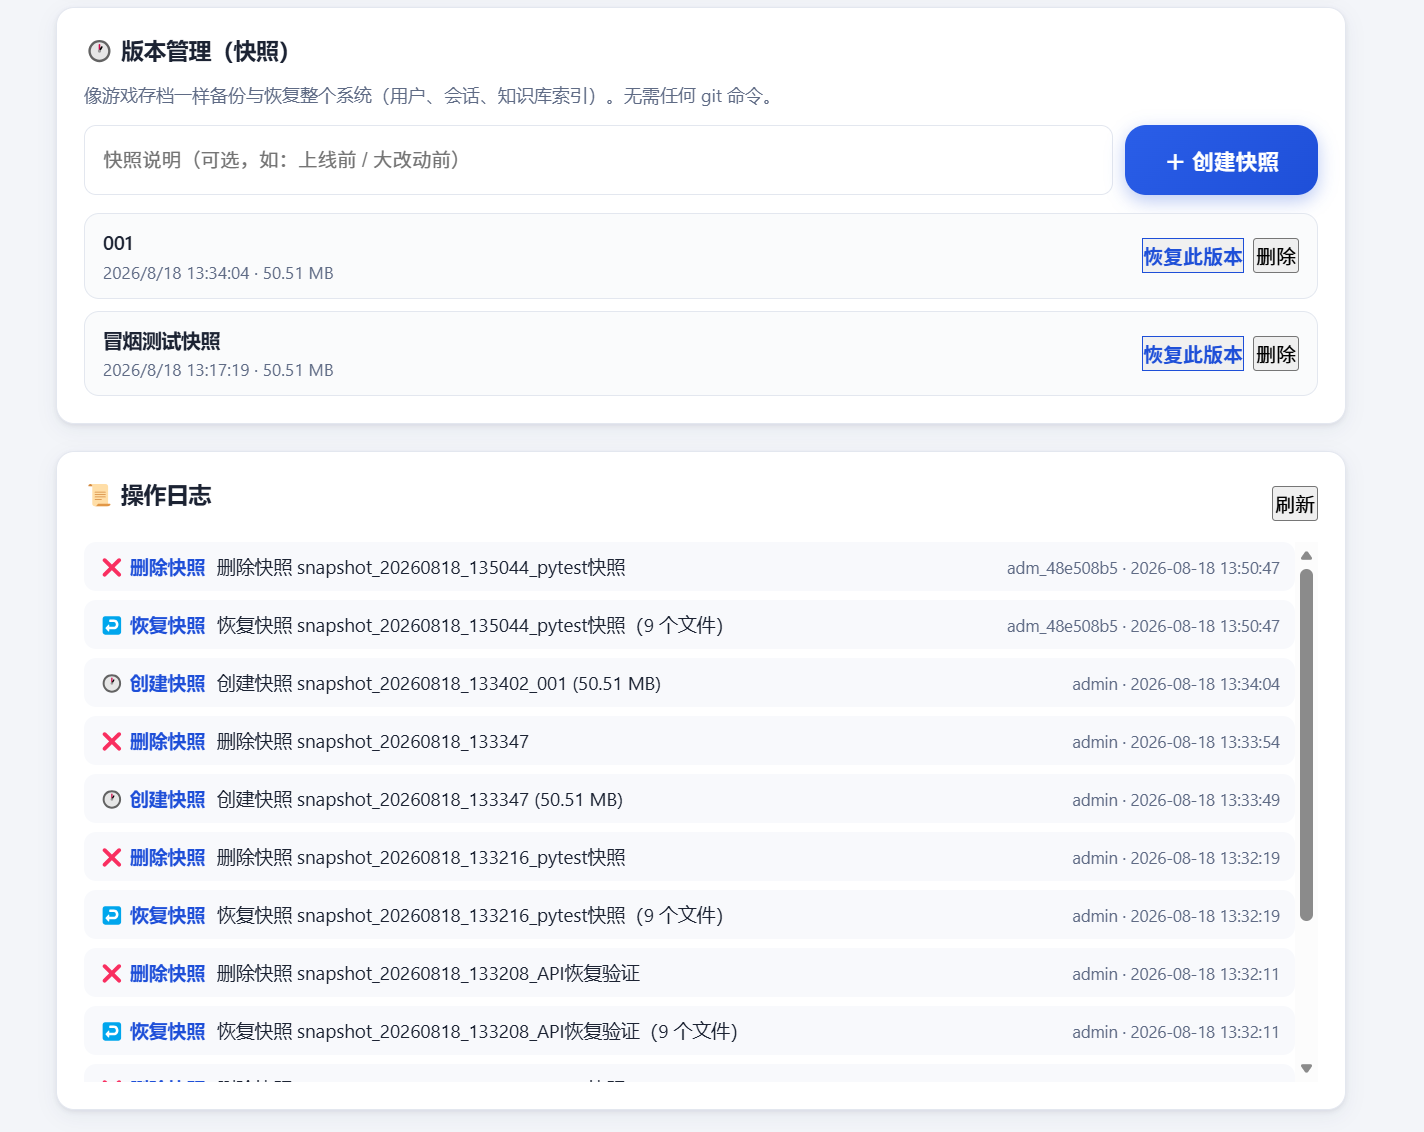
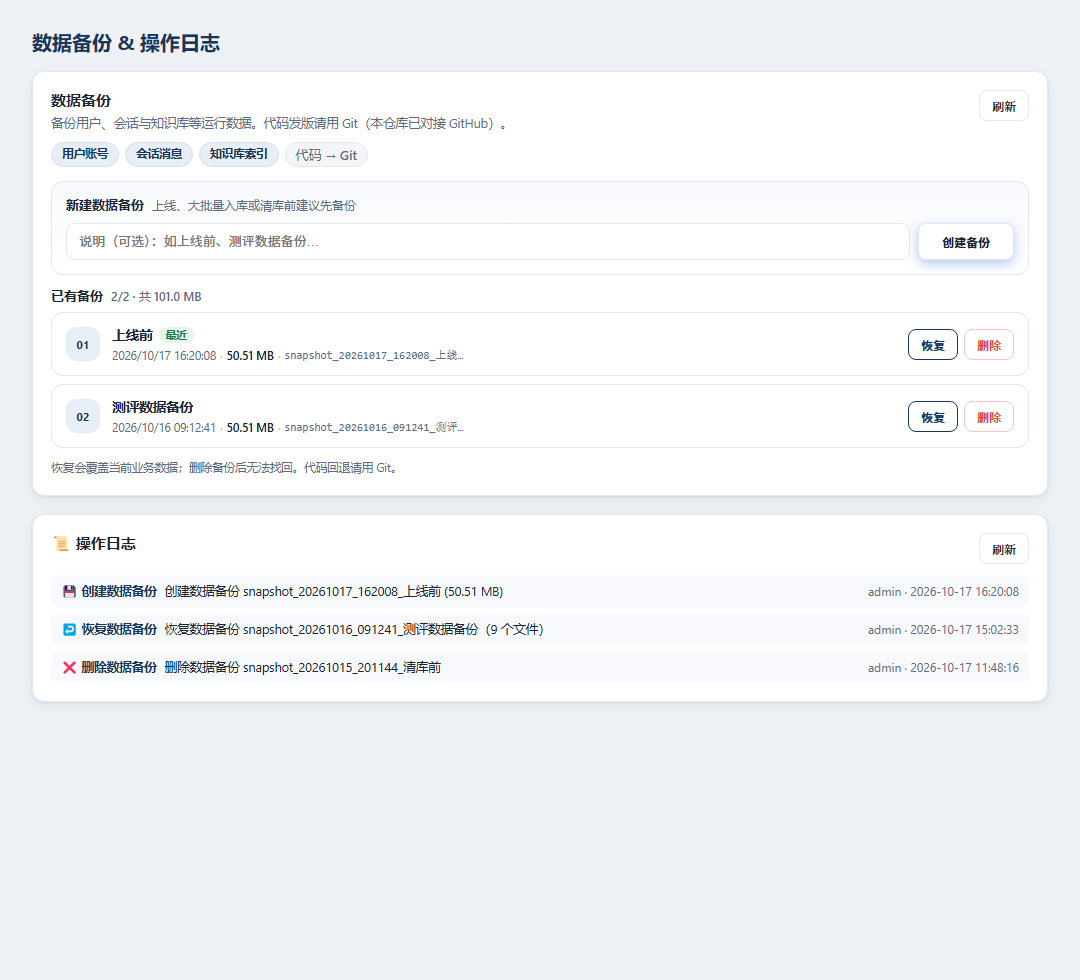
docs: call runtime backups data backups and refresh the README shot
Avoid mixing Git version control with the admin backup panel.

diff --git a/frontend/src/components/AdminPanel.tsx b/frontend/src/components/AdminPanel.tsx
@@ -870,7 +870,7 @@ function BackupPanel() {
     try {
       const r = await api.backupRestore(s.name);
       setMsgType("ok");
-      setMsg(`已恢复到该版本（还原 ${r.count} 个文件）`);
+      setMsg(`已恢复该备份（还原 ${r.count} 个文件）`);
       await refresh();
     } catch (err) {
       setMsgType("err");
@@ -1073,7 +1073,7 @@ function BackupPanel() {
   );
 }
 
-/** 操作日志：追踪管理操作（删用户/改角色/快照等） */
+/** 操作日志：追踪管理操作（删用户/改角色/数据备份等） */
 function LogsPanel() {
   const [logs, setLogs] = useState<AdminLogItem[]>([]);
 

diff --git a/frontend/src/styles/app.css b/frontend/src/styles/app.css
@@ -1263,7 +1263,7 @@ code {
   margin-bottom: 2px;
 }
 
-/* 版本快照 */
+/* 数据备份 */
 .bk-hint {
   font-size: 12px;
   color: var(--text-2);

diff --git a/backend/app/api/admin_api.py b/backend/app/api/admin_api.py
@@ -179,24 +179,24 @@ def delete_user(user_id: int, admin: dict = Depends(require_perm("users"))) -> d
     return {"ok": True}
 
 
-# ---------- 版本快照 ----------
+# ---------- 数据备份（运行数据；代码版本用 Git） ----------
 @router.post("/backup/create")
 def backup_create(description: str = "", admin: dict = Depends(require_perm("backups"))):
-    """创建版本快照。"""
+    """创建数据备份。"""
     from app.services.backup import create_snapshot
 
     try:
         result = create_snapshot(description)
         log_action(admin["id"], admin["username"], "backup_create",
-                   f"创建快照 {result['name']} ({result['size_mb']} MB)")
+                   f"创建数据备份 {result['name']} ({result['size_mb']} MB)")
         return result
     except Exception as exc:  # noqa: BLE001
-        raise AppError(f"创建快照失败: {exc}", 500) from exc
+        raise AppError(f"创建数据备份失败: {exc}", 500) from exc
 
 
 @router.get("/backup/list")
 def backup_list(_: dict = Depends(require_perm("backups"))):
-    """列出全部快照。"""
+    """列出全部数据备份。"""
     from app.services.backup import list_snapshots
 
     return {"snapshots": list_snapshots()}
@@ -204,13 +204,13 @@ def backup_list(_: dict = Depends(require_perm("backups"))):
 
 @router.post("/backup/{name}/restore")
 def backup_restore(name: str, admin: dict = Depends(require_perm("backups"))):
-    """恢复快照。"""
+    """恢复数据备份。"""
     from app.services.backup import restore_snapshot
 
     try:
         result = restore_snapshot(name)
         log_action(admin["id"], admin["username"], "backup_restore",
-                   f"恢复快照 {name}（{result['count']} 个文件）")
+                   f"恢复数据备份 {name}（{result['count']} 个文件）")
         return result
     except FileNotFoundError as exc:
         raise AppError(str(exc), 404) from exc
@@ -220,13 +220,13 @@ def backup_restore(name: str, admin: dict = Depends(require_perm("backups"))):
 
 @router.delete("/backup/{name}")
 def backup_delete(name: str, admin: dict = Depends(require_perm("backups"))):
-    """删除快照。"""
+    """删除数据备份。"""
     from app.services.backup import delete_snapshot
 
     ok = delete_snapshot(name)
     if not ok:
-        raise AppError("快照不存在", 404)
-    log_action(admin["id"], admin["username"], "backup_delete", f"删除快照 {name}")
+        raise AppError("数据备份不存在", 404)
+    log_action(admin["id"], admin["username"], "backup_delete", f"删除数据备份 {name}")
     return {"ok": True}
 
 

diff --git a/README.md b/README.md
@@ -41,7 +41,7 @@
 ### 管理后台
 - **数据看板**：用户数、会话数、消息数、文档数、检索块数一目了然
 - **用户管理**：搜索、角色分配、用户删除
-- **版本快照**：一键备份/恢复整个系统数据（类游戏存档机制）
+- **数据备份**：备份并恢复用户、会话与知识库索引。代码发版用 Git
 - **操作日志**：完整记录所有管理操作
 
 ## 技术架构
@@ -103,7 +103,7 @@ cd frontend && npm install && npm run dev
 2. **数据采集**：编写爬虫采集 377 部现行法律法规文本
 3. **RAG 搭建**：设计文档切片策略，基于 Dify 搭建检索增强生成流程
 4. **产品设计**：设计引用溯源、多轮对话、风险兜底等交互逻辑
-5. **全栈开发**：独立完成前端界面、用户系统、管理后台、版本管理
+5. **全栈开发**：独立完成前端界面、用户系统、管理后台、数据备份
 6. **质量保障**：编写 pytest 测试用例，API 恢复验证
 
 ## 目录结构
@@ -132,8 +132,8 @@ legal-rag-qa/
 ### 管理后台（数据看板 & 用户管理）
 ![管理后台](https://raw.githubusercontent.com/tys0321/legal-rag-qa/main/screenshots/03-admin.png)
 
-### 版本快照 & 操作日志
-![版本管理](https://raw.githubusercontent.com/tys0321/legal-rag-qa/main/screenshots/04-version.png)
+### 数据备份 & 操作日志
+![数据备份](screenshots/04-version.png)
 
 ### 高保真原型设计稿
 ![高保真原型](https://raw.githubusercontent.com/tys0321/legal-rag-qa/main/screenshots/05-prototype.png)
